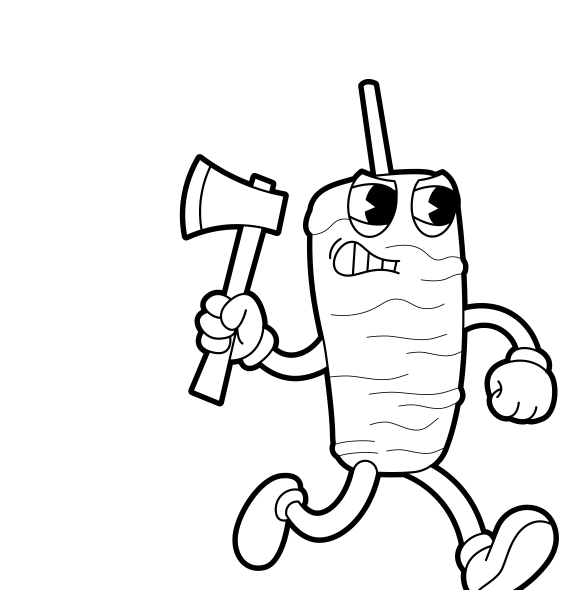
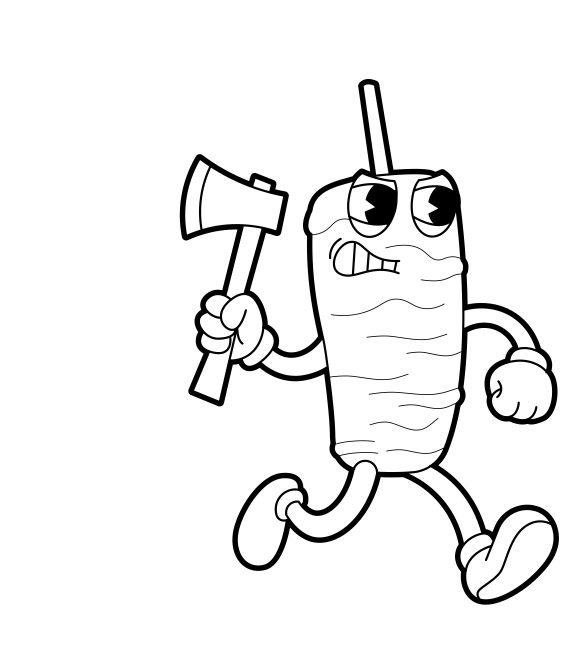
style(sidebar): extend kebab crop to fully show feet with clearance

Changed region(s): [[0.3103, 0.122, 0.9621, 1.0], [0.6207, 0.5186, 0.6517, 0.5492]]

diff --git a/components/layout/AppShell.tsx b/components/layout/AppShell.tsx
@@ -428,12 +428,12 @@ export default function AppShell({
       {/* ── Desktop sidebar (hidden on mobile) ── */}
       <aside className="hidden md:flex md:w-56 md:shrink-0 bg-kraft-light border-r border-[#171717]/20 flex-col sticky top-0 h-screen">
         {/* Mascot */}
-        <div className="px-3 pt-4 pb-1 shrink-0">
+        <div className="px-3 pt-4 pb-2 shrink-0">
           <Image
             src="/kk-kebab.png"
             alt="Killer Kebab mascot"
-            width={560}
-            height={520}
+            width={580}
+            height={650}
             className="w-full mix-blend-multiply"
             priority
           />
